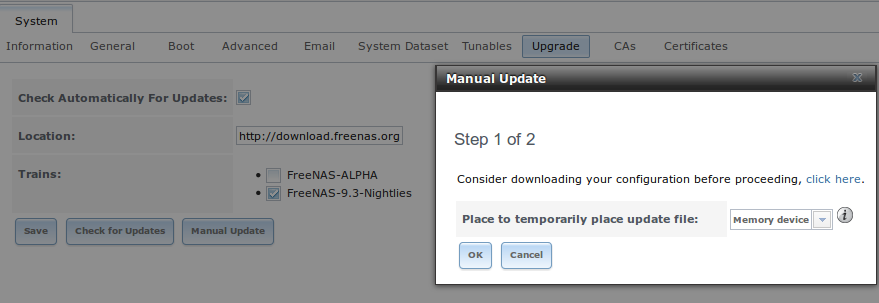
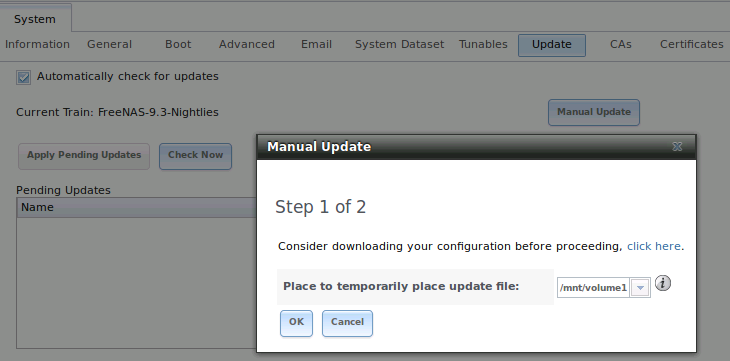
We no longer lock volumes. We no longer have a "publication" date. Update some screenshots.

diff --git a/docs/userguide/freenas_install.rst b/docs/userguide/freenas_install.rst
@@ -316,9 +316,8 @@ Before upgrading the operating system or applying a system update, perform the f
 
 #.  **Backup the FreeNAS® configuration** in :menuselection:`System --> General --> Save Config`.
 
-#. **Create a boot environment** in :menuselection:`System --> Boot`.
-
-#.  If any volumes are encrypted, **make sure** that you have set the passphrase and have a copy of the encryption key and the latest recovery key.
+#.  If any volumes are encrypted, **make sure** that you have set the passphrase and have a copy of the encryption key and the latest recovery key. Once the
+    upgrade is complete, use the instructions in :ref:`Importing an Encrypted Pool` to import the encrypted volume.
 
 #.  Warn users that the FreeNAS® shares will be unavailable during the upgrade; you should schedule the upgrade for a time that will least impact users.
 
@@ -384,20 +383,20 @@ file for the release and its associated SHA256 hash to the computer that you use
 |upgrade3.png|
 
 .. |upgrade3.png| image:: images/upgrade3.png
-    :width: 7.4in
-    :height: 2.5in
+    :width: 6.5in
+    :height: 3.2in
 
-Use the drop-down menu to select an existing volume to temporarily place the firmware file during the upgrade. Alternately, select "Memory device" to
-allow the system to create a temporary RAM disk to be used during the upgrade. After making your selection, click the "Apply Update" button to see the screen
-shown in Figure 2.5d.
+Use the drop-down menu to select an existing volume to temporarily place the firmware file during the upgrade. Alternately, select "Memory device" to allow
+the system to create a temporary RAM disk to be used during the upgrade. After making your selection, click the "OK" button to see the screen shown in Figure
+2.5d.
 
 **Figure 2.5d: Step 2 of 2**
 
 |upgrade4.png|
 
 .. |upgrade4.png| image:: images/upgrade4.png
-    :width: 8.2in
-    :height: 2.8in
+    :width: 6.8in
+    :height: 3.4in
 
 This screen again reminds you to backup your configuration before proceeding. If you have not yet, click the "click here" link.
 
@@ -438,22 +437,6 @@ In this example, this system has the option to track *FreeNAS-ALPHA*, or the upc
 administrator has selected to track the *FreeNAS-9.3-Nightlies*.
 
 To see if any updates are available, click the "Check for Updates" button.
-
-.. _Unlocking an Encrypted Volume:
-
-Unlocking an Encrypted Volume
-~~~~~~~~~~~~~~~~~~~~~~~~~~~~~
-
-If your disks are encrypted and you have created a passphrase and saved the recovery key, the volume will automatically be locked during an upgrade. This is
-to prevent an unauthorized user from using an upgrade procedure to gain access to the data on the encrypted disks. After the upgrade, the locked volumes will
-be unavailable until they are unlocked with the passphrase and recovery key.
-
-To unlock the volume, go to :menuselection:`Storage --> Volumes --> View Volumes` and highlight the locked volume. As seen in Figure 2.5f, clicking the
-"Unlock" icon will prompt for the passphrase or recovery key. You can also select which services to start when the volume is unlocked.
-
-**Figure 2.5f: Unlocking an Encrypted Volume**
-
-|Figure27f_png|
 
 .. _If Something Goes Wrong:
 
@@ -510,9 +493,9 @@ Before upgrading an existing ZFS pool, be aware of the following caveats first:
   While it is unlikely that the pool upgrade will affect the data, it is always better to be safe than sorry.
 
 To perform the ZFS pool upgrade, go to :menuselection:`Storage --> Volumes --> View Volumes` and highlight the volume (ZFS pool) to upgrade. Click the
-"Upgrade" button as seen in Figure 2.5g.
+"Upgrade" button as seen in Figure 2.5f.
 
-**Figure 2.5g: Upgrading a ZFS Pool**
+**Figure 2.5f: Upgrading a ZFS Pool**
 
 |Figure27g_png|
 

diff --git a/docs/userguide/freenas_storage.rst b/docs/userguide/freenas_storage.rst
@@ -798,8 +798,8 @@ repeat the desired passphrase and a red warning reminds you to "Remember to add 
 Unlike a password, a passphrase can contain spaces and is typically a series of words. A good passphrase is easy to remember (like the line to a song or piece
 of literature) but hard to guess (people who know you should not be able to guess the passphrase).
 **Remember this passphrase as you can not re-import an encrypted volume without it.** In other words, if you forget the passphrase, the data on the volume can
-become inaccessible if you need to re-import or unlock the pool. Protect this passphrase as anyone who knows it could re-import your encrypted volume,
-thwarting the reason for encrypting the disks in the first place.
+become inaccessible if you need to re-import the pool. Protect this passphrase as anyone who knows it could re-import your encrypted volume, thwarting the
+reason for encrypting the disks in the first place.
 
 Once the passphrase is set, the name of this button will change to "Change Passphrase". After setting or changing the passphrase, it is important to
 immediately create a new recovery key by clicking the "Add recovery key" button. This way, if the passphrase is forgotten, the associated recovery key can be

diff --git a/docs/userguide/freenas_reboot.rst b/docs/userguide/freenas_reboot.rst
@@ -8,9 +8,6 @@ Reboot
 If you click the "Reboot" entry in the tree, you will receive the warning message shown in Figure 19a and your browser color will change to red to indicate
 that you have selected an option that will negatively impact users of the FreeNAS® system.
 
-.. note:: if any volumes are encrypted, make sure that you have set the passphrase and have copies of the encryption key and the latest recovery key using the
-   instructions in :ref:`Encryption` before performing a reboot. **Without these, you will not be able to unlock the encrypted volume after the reboot.**
-
 **Figure 19a: Reboot Warning Message**
 
 |reboot.png|

diff --git a/docs/userguide/freenas_shutdown.rst b/docs/userguide/freenas_shutdown.rst
@@ -8,9 +8,6 @@ Shutdown
 If you click the "Shutdown" entry in the tree, you will receive the warning message shown in Figure 20a and your browser color will change to red to indicate
 that you have selected an option that will negatively impact users of the FreeNAS® system.
 
-.. note:: if any volumes are encrypted, make sure that you have set the passphrase and have copies of the encryption key and the latest recovery key before
-   performing a shutdown. Without these, you will not be able to unlock the encrypted volume when the system is restarted.
-
 **Figure 20a: Shutdown Warning Message**
 
 |shutdown.png|

diff --git a/docs/userguide/freenas_intro.rst b/docs/userguide/freenas_intro.rst
@@ -18,8 +18,6 @@ Written by users of the FreeNAS® network-attached storage operating system.
 
 Version 9.3
 
-Published XX, 2014
-
 Copyright © 2011-2014
 `iXsystems <http://www.ixsystems.com/>`_
     
